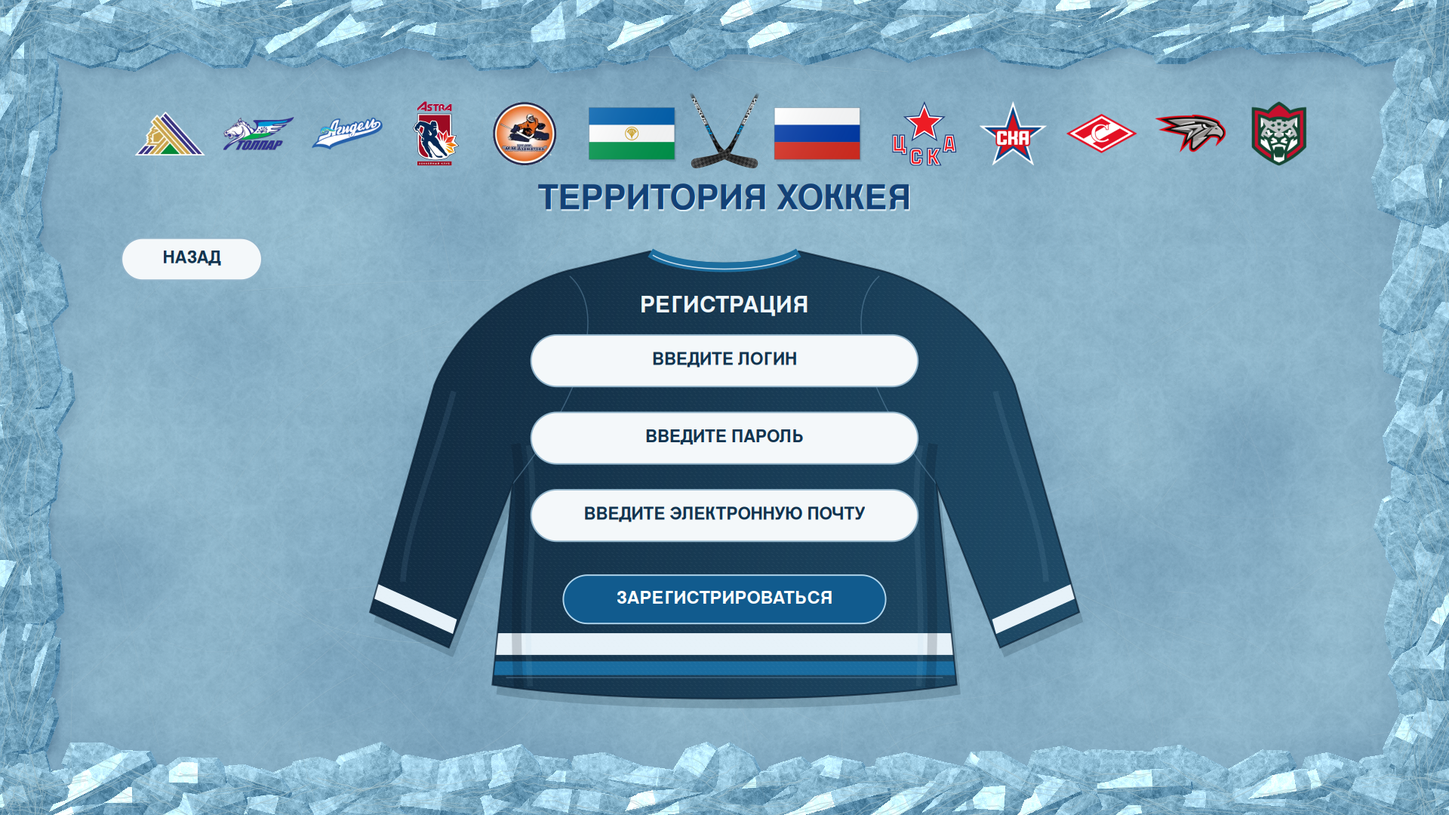
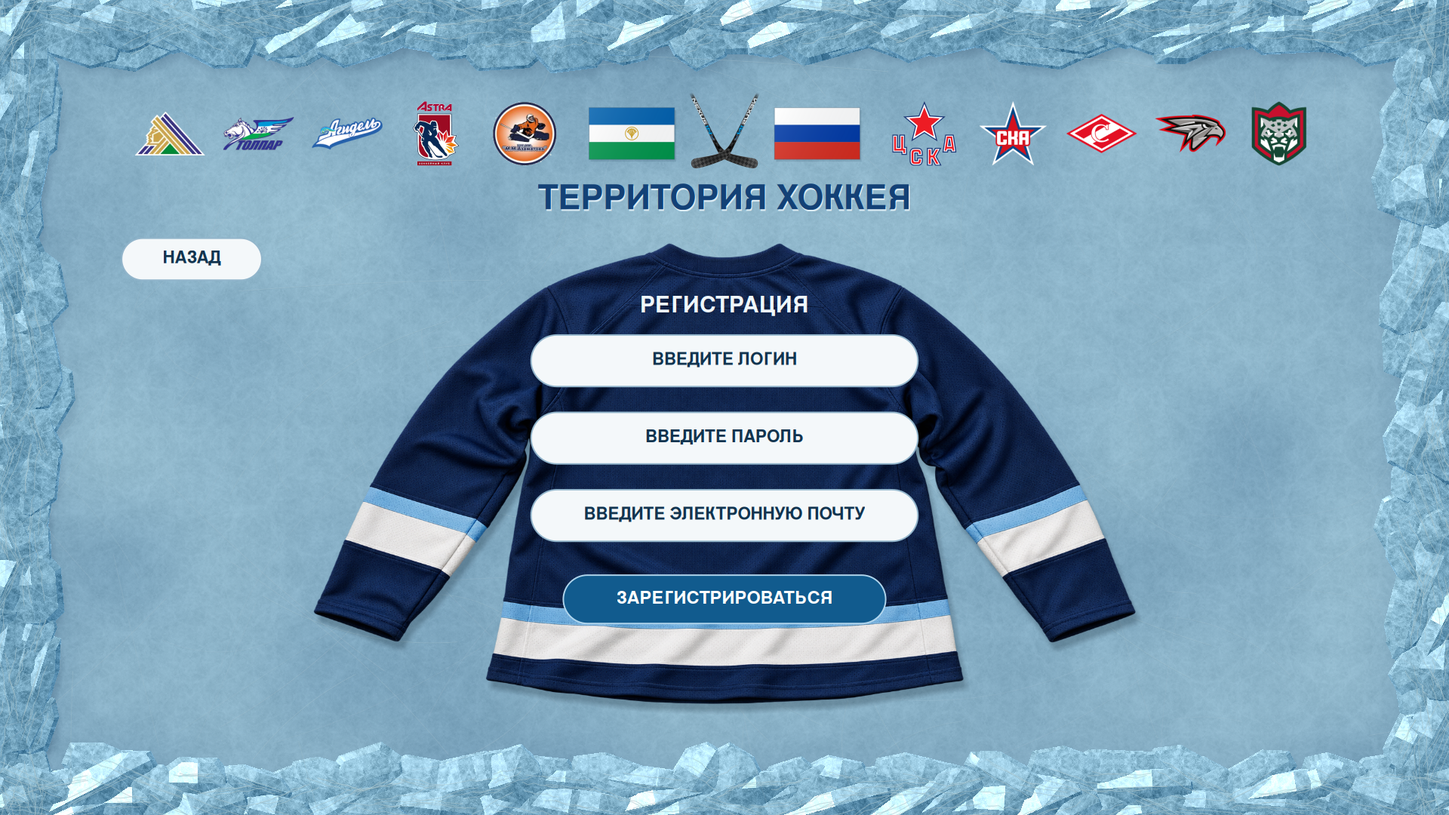
Make login and registration jerseys more realistic
Replace the flat jersey drawing with a transparent garment asset featuring natural folds, reinforced seams, a ribbed collar and cuffs. Composite visible regions with premultiplied alpha and add fine weave for large exports.

Keep native input geometry, refresh both form previews and the transition GIF, and document the source resolution and generation prompt.

Validation: Windows Release build with no warnings or errors; all input capsules remain on opaque cloth; matching full-patch and band rendering at Full HD, 4K and a native 32K crop.

Changed region(s): [[0.2188, 0.3056, 0.7812, 0.8861]]

diff --git a/COURSE_3/EP_TPaD_DB/App_C#/App/JerseyFabricDrawing.cs b/COURSE_3/EP_TPaD_DB/App_C#/App/JerseyFabricDrawing.cs
@@ -1,0 +1,173 @@
+using System.Drawing.Drawing2D;
+using System.Drawing.Imaging;
+using System.Runtime.InteropServices;
+
+namespace LP_PopovD_App
+{
+    internal static class JerseyFabricDrawing
+    {
+        // Широкая хоккейная посадка оставляет все поля внутри спинки.
+        internal static readonly RectangleF BodyBounds = new(290, 196, 1020, 572);
+        internal static readonly RectangleF PaintBounds = new(278, 184, 1044, 602);
+        private static Fabric? material;
+
+        private sealed class Fabric
+        {
+            internal readonly int Width, Height;
+            internal readonly int[] Pixels;
+            internal readonly byte[] Shadow;
+            internal readonly Rectangle Crop;
+
+            internal Fabric()
+            {
+                Bitmap image = ArtworkResources.Get("JerseyBack");
+                Width = image.Width; Height = image.Height;
+                Pixels = new int[Width * Height];
+                byte[] alpha = new byte[Pixels.Length];
+                BitmapData data = image.LockBits(new Rectangle(Point.Empty, image.Size),
+                    ImageLockMode.ReadOnly, PixelFormat.Format32bppArgb);
+                int left = Width, top = Height, right = -1, bottom = -1;
+                try
+                {
+                    int[] row = new int[Width];
+                    for (int y = 0; y < Height; y++)
+                    {
+                        Marshal.Copy(IntPtr.Add(data.Scan0, y * data.Stride), row, 0, Width);
+                        for (int x = 0; x < Width; x++)
+                        {
+                            uint c = (uint)row[x];
+                            int a = (int)(c >> 24), r = (int)(c >> 16 & 255), g = (int)(c >> 8 & 255), b = (int)(c & 255);
+                            int i = y * Width + x;
+                            alpha[i] = (byte)a;
+                            Pixels[i] = a << 24 | (r * a + 127) / 255 << 16 | (g * a + 127) / 255 << 8 | (b * a + 127) / 255;
+                            if (a < 32) continue;
+                            left = Math.Min(left, x); top = Math.Min(top, y);
+                            right = Math.Max(right, x); bottom = Math.Max(bottom, y);
+                        }
+                    }
+                }
+                finally { image.UnlockBits(data); }
+                if (right < left) throw new InvalidDataException("Пустое изображение хоккейной майки.");
+                Crop = Rectangle.FromLTRB(left, top, right + 1, bottom + 1);
+                Shadow = BlurAlpha(alpha, Width, Height, 6);
+            }
+
+            private static byte[] BlurAlpha(byte[] alpha, int width, int height, int radius)
+            {
+                int diameter = radius * 2 + 1;
+                byte[] horizontal = new byte[alpha.Length], result = new byte[alpha.Length];
+                for (int y = 0; y < height; y++)
+                {
+                    int sum = 0, row = y * width;
+                    for (int k = 0; k <= radius; k++) sum += alpha[row + k];
+                    for (int x = 0; x < width; x++)
+                    {
+                        horizontal[row + x] = (byte)(sum / diameter);
+                        if (x - radius >= 0) sum -= alpha[row + x - radius];
+                        if (x + radius + 1 < width) sum += alpha[row + x + radius + 1];
+                    }
+                }
+                for (int x = 0; x < width; x++)
+                {
+                    int sum = 0;
+                    for (int k = 0; k <= radius; k++) sum += horizontal[k * width + x];
+                    for (int y = 0; y < height; y++)
+                    {
+                        result[y * width + x] = (byte)(sum / diameter);
+                        if (y - radius >= 0) sum -= horizontal[(y - radius) * width + x];
+                        if (y + radius + 1 < height) sum += horizontal[(y + radius + 1) * width + x];
+                    }
+                }
+                return result;
+            }
+
+            internal void Read(float x, float y, out float a, out float r, out float g, out float b)
+            {
+                a = r = g = b = 0;
+                if (x < 0 || y < 0 || x >= Width - 1 || y >= Height - 1) return;
+                int ix = (int)x, iy = (int)y, i = iy * Width + ix;
+                float fx = x - ix, fy = y - iy;
+                uint p00 = (uint)Pixels[i], p10 = (uint)Pixels[i + 1];
+                uint p01 = (uint)Pixels[i + Width], p11 = (uint)Pixels[i + Width + 1];
+                float w00 = (1 - fx) * (1 - fy), w10 = fx * (1 - fy), w01 = (1 - fx) * fy, w11 = fx * fy;
+                a = (p00 >> 24) * w00 + (p10 >> 24) * w10 + (p01 >> 24) * w01 + (p11 >> 24) * w11;
+                r = (p00 >> 16 & 255) * w00 + (p10 >> 16 & 255) * w10 + (p01 >> 16 & 255) * w01 + (p11 >> 16 & 255) * w11;
+                g = (p00 >> 8 & 255) * w00 + (p10 >> 8 & 255) * w10 + (p01 >> 8 & 255) * w01 + (p11 >> 8 & 255) * w11;
+                b = (p00 & 255) * w00 + (p10 & 255) * w10 + (p01 & 255) * w01 + (p11 & 255) * w11;
+            }
+
+            internal float ShadowAt(float x, float y)
+            {
+                if (x < 0 || y < 0 || x >= Width - 1 || y >= Height - 1) return 0;
+                int ix = (int)x, iy = (int)y, i = iy * Width + ix;
+                float fx = x - ix, fy = y - iy;
+                return (Shadow[i] * (1 - fx) + Shadow[i + 1] * fx) * (1 - fy) +
+                    (Shadow[i + Width] * (1 - fx) + Shadow[i + Width + 1] * fx) * fy;
+            }
+        }
+
+        internal static void Draw(Graphics g, RectangleF? viewport)
+        {
+            material ??= new Fabric();
+            Fabric fabric = material;
+            RectangleF visible = viewport.HasValue ? RectangleF.Intersect(PaintBounds, viewport.Value) : PaintBounds;
+            if (visible.IsEmpty) return;
+            using Matrix transform = g.Transform;
+            float[] m = transform.Elements;
+            float sx = m[0], sy = m[3], dx = m[4], dy = m[5];
+            if (sx <= 0 || sy <= 0 || Math.Abs(m[1]) > .001f || Math.Abs(m[2]) > .001f)
+                throw new NotSupportedException("Для майки нужен прямой масштаб без поворота.");
+            int left = (int)Math.Floor(visible.Left * sx + dx), top = (int)Math.Floor(visible.Top * sy + dy);
+            int right = (int)Math.Ceiling(visible.Right * sx + dx), bottom = (int)Math.Ceiling(visible.Bottom * sy + dy);
+            int width = right - left, height = bottom - top;
+            if (width < 1 || height < 1) return;
+            using Bitmap patch = new(width, height, PixelFormat.Format32bppPArgb);
+            patch.SetResolution(96, 96);
+            BitmapData data = patch.LockBits(new Rectangle(Point.Empty, patch.Size), ImageLockMode.WriteOnly, PixelFormat.Format32bppPArgb);
+            float sourceScaleX = fabric.Crop.Width / BodyBounds.Width, sourceScaleY = fabric.Crop.Height / BodyBounds.Height;
+            float detail = Math.Clamp((Math.Min(sx, sy) - 3) / 6, 0, 1);
+            try
+            {
+                Parallel.For(0, height, new ParallelOptions { MaxDegreeOfParallelism = Math.Min(Environment.ProcessorCount, 8) },
+                    () => new int[width], (y, _, row) =>
+                    {
+                        float wy = (top + y + .5f - dy) / sy;
+                        float v = fabric.Crop.Top + (wy - BodyBounds.Y) * sourceScaleY - .5f;
+                        for (int x = 0; x < width; x++)
+                        {
+                            float wx = (left + x + .5f - dx) / sx;
+                            float u = fabric.Crop.Left + (wx - BodyBounds.X) * sourceScaleX - .5f;
+                            fabric.Read(u, v, out float a, out float r, out float green, out float b);
+                            if (a > 16 && detail > 0)
+                            {
+                                // Тонкое плетение строится в целевых пикселях, а не увеличивается из PNG.
+                                float tx = (wx - BodyBounds.X) * 2.8f, ty = (wy - BodyBounds.Y) * 3.1f;
+                                int ix = (int)MathF.Floor(tx), iy = (int)MathF.Floor(ty);
+                                float fx = tx - ix, fy = ty - iy;
+                                float yarn = ((ix + iy) & 1) == 0 ? 1 - Math.Abs(fx * 2 - 1) : 1 - Math.Abs(fy * 2 - 1);
+                                float pore = Math.Max(0, 1 - ((fx - .5f) * (fx - .5f) + (fy - .5f) * (fy - .5f)) * 34);
+                                float thread = ((yarn - .5f) * 2.2f - pore * 1.3f) * detail * a / 255;
+                                r = Math.Clamp(r + thread, 0, a); green = Math.Clamp(green + thread, 0, a); b = Math.Clamp(b + thread, 0, a);
+                            }
+                            float shadow = fabric.ShadowAt(u - 5 * sourceScaleX, v - 10 * sourceScaleY) * .24f * (1 - a / 255);
+                            float outputAlpha = a + shadow;
+                            int aa = (int)Math.Clamp(outputAlpha, 0, 255);
+                            int rr = (int)Math.Clamp(r + shadow * 4 / 255, 0, aa);
+                            int gg = (int)Math.Clamp(green + shadow * 18 / 255, 0, aa);
+                            int bb = (int)Math.Clamp(b + shadow * 30 / 255, 0, aa);
+                            row[x] = aa << 24 | rr << 16 | gg << 8 | bb;
+                        }
+                        Marshal.Copy(row, 0, IntPtr.Add(data.Scan0, y * data.Stride), row.Length);
+                        return row;
+                    }, _ => { });
+            }
+            finally { patch.UnlockBits(data); }
+            GraphicsState state = g.Save();
+            g.ResetTransform();
+            g.InterpolationMode = InterpolationMode.NearestNeighbor;
+            g.PixelOffsetMode = PixelOffsetMode.None;
+            g.DrawImageUnscaled(patch, left, top);
+            g.Restore(state);
+        }
+    }
+}

diff --git a/COURSE_3/EP_TPaD_DB/App_C#/App/JerseyDrawing.cs b/COURSE_3/EP_TPaD_DB/App_C#/App/JerseyDrawing.cs
@@ -25,82 +25,16 @@ namespace LP_PopovD_App
             return path;
         }
 
-        private static GraphicsPath Shirt()
-        {
-            GraphicsPath path = new();
-            path.AddBezier(708, 206, 745, 226, 855, 226, 892, 206);
-            path.AddLine(892, 206, 994, 230);
-            path.AddBezier(994, 230, 1056, 247, 1128, 293, 1160, 372);
-            path.AddLine(1160, 372, 1240, 654);
-            path.AddLine(1240, 654, 1142, 698);
-            path.AddLine(1142, 698, 1063, 495);
-            path.AddLine(1063, 495, 1088, 744);
-            path.AddBezier(1088, 744, 944, 767, 656, 767, 512, 744);
-            path.AddLine(512, 744, 537, 495);
-            path.AddLine(537, 495, 458, 698);
-            path.AddLine(458, 698, 360, 654);
-            path.AddLine(360, 654, 440, 372);
-            path.AddBezier(440, 372, 472, 293, 544, 247, 606, 230);
-            path.CloseFigure();
-            return path;
-        }
-
         internal static void Draw(Graphics g, bool registration, bool includeControls, string status = "", RectangleF? viewport = null)
         {
             HeaderDrawing.Draw(g, viewport);
-            if (viewport.HasValue && !viewport.Value.IntersectsWith(new RectangleF(345, 192, 915, 590)))
+            if (viewport.HasValue && !viewport.Value.IntersectsWith(JerseyFabricDrawing.PaintBounds))
             {
                 if (includeControls && viewport.Value.IntersectsWith(new RectangleF(49, 187, 180, 58)))
                     DrawCapsule(g, BackBounds, "НАЗАД", false);
                 return;
             }
-            using GraphicsPath shirt = Shirt();
-            using GraphicsPath shadow = (GraphicsPath)shirt.Clone();
-            using (Matrix move = new()) { move.Translate(5, 12); shadow.Transform(move); }
-            using SolidBrush shade = new(Color.FromArgb(42, 6, 25, 42));
-            g.FillPath(shade, shadow);
-            using LinearGradientBrush fabric = new(new RectangleF(354, 206, 892, 550),
-                Color.FromArgb(16, 40, 61), Color.FromArgb(31, 76, 105), 15);
-            g.FillPath(fabric, shirt);
-            GraphicsState state = g.Save();
-            g.SetClip(shirt, CombineMode.Intersect);
-            using SolidBrush stripe = new(Color.FromArgb(231, 242, 249));
-            using SolidBrush blue = new(Color.FromArgb(26, 108, 159));
-            g.FillRectangle(stripe, 500, 680, 600, 27);
-            g.FillRectangle(blue, 500, 715, 600, 17);
-            PointF[] cuff = { new(370, 619), new(468, 663), new(463, 681), new(365, 637) };
-            g.FillPolygon(stripe, cuff);
-            g.FillPolygon(stripe, cuff.Select(p => new PointF(1600 - p.X, p.Y)).ToArray());
-            using Pen sleeveFold = new(Color.FromArgb(28, 138, 184, 211), 7);
-            g.DrawBezier(sleeveFold, 464, 380, 441, 468, 406, 545, 401, 616);
-            g.DrawBezier(sleeveFold, 1136, 380, 1159, 468, 1194, 545, 1199, 616);
-            using Pen knit = new(Color.FromArgb(14, 201, 222, 234), 0.6f);
-            for (int y = 216; y < 760; y += 4)
-            {
-                if (viewport.HasValue && (y + 2 < viewport.Value.Top || y - 1 > viewport.Value.Bottom)) continue;
-                for (int x = 360 + (y % 8 == 0 ? 2 : 0); x < 1240; x += 6)
-                {
-                    if (viewport.HasValue && (x + 3 < viewport.Value.Left || x - 1 > viewport.Value.Right)) continue;
-                    g.DrawLine(knit, x, y, x + 2, y + 1);
-                }
-            }
-            using Pen fold = new(Color.FromArgb(44, 0, 9, 18), 12);
-            using Pen foldLight = new(Color.FromArgb(22, 155, 200, 224), 7);
-            g.DrawBezier(fold, 541, 445, 555, 530, 535, 629, 545, 748);
-            g.DrawBezier(foldLight, 557, 447, 571, 538, 550, 625, 559, 746);
-            g.DrawBezier(fold, 1059, 445, 1045, 530, 1065, 629, 1055, 748);
-            g.DrawBezier(foldLight, 1043, 447, 1029, 538, 1050, 625, 1041, 746);
-            using Pen seam = new(Color.FromArgb(105, 117, 162, 189), 1.4f);
-            g.DrawBezier(seam, 608, 237, 656, 280, 625, 385, 537, 495);
-            g.DrawBezier(seam, 992, 237, 944, 280, 975, 385, 1063, 495);
-            g.DrawLine(seam, 529, 735, 1071, 735);
-            g.Restore(state);
-            using Pen outline = new(Color.FromArgb(178, 9, 31, 50), 2);
-            g.DrawPath(outline, shirt);
-            using Pen collar = new(Color.FromArgb(28, 110, 159), 12);
-            g.DrawBezier(collar, 708, 208, 747, 232, 853, 232, 892, 208);
-            using Pen collarStitch = new(Color.FromArgb(206, 222, 235), 1.4f);
-            g.DrawBezier(collarStitch, 711, 211, 750, 234, 850, 234, 889, 211);
+            JerseyFabricDrawing.Draw(g, viewport);
 
             using Font title = new(RinkTypography.FamilyName, 28, FontStyle.Bold, GraphicsUnit.Pixel);
             using SolidBrush white = new(Color.FromArgb(239, 247, 252));

diff --git a/COURSE_3/EP_TPaD_DB/App_C#/README.md b/COURSE_3/EP_TPaD_DB/App_C#/README.md
@@ -39,6 +39,15 @@
 Регистрация использует ту же майку, размеры полей и стиль; добавлено поле электронной почты.
 Эмблемы клубов, флаги и название приложения остаются сверху в обоих случаях.
 
+Майка использует фотореалистическую основу: тяжёлая сетчатая ткань, естественные складки
+на рукавах и спинке, усиленные плечевые швы, вязаный воротник, объёмные манжеты и подгибка.
+Мягкая тень отделяет ткань от льда. Все поля целиком помещаются на широкой спинке.
+В крупном экспорте мелкое плетение дополнительно рассчитывается в целевых пикселях;
+отрисовывается только видимая полоса, без выделения памяти под всю майку в 32K.
+[Jersey_Detail_32K.png](Jersey_Detail_32K.png) — фрагмент 1600 × 1200 из кадра
+30720 × 17280 в масштабе 1:1. Основа создана встроенным ImageGen с прозрачным фоном;
+её исходный размер — 1536 × 1024, [полный запрос](App/Assets/JerseyBack.prompt.txt).
+
 Это настоящие элементы ввода WinForms:
 - пароль закрывается системными символами;
 - поля доступны мышью и клавишей Tab;
@@ -87,8 +96,8 @@ MIP-уровень подавляет муар при уменьшении; но
 В [Ice_Detail_32K.png](Ice_Detail_32K.png) показан фрагмент 1600 × 1200 из отрисовки
 кадра 30720 × 17280 в масштабе 1:1, чтобы рассмотреть острые грани и фактуру.
 Кэш переносится на экран 1:1 без повторной фильтрации.
-Майка, поля, надписи и разметка также строятся в целевом разрешении.
-Собственная детализация растровых эмблем, резины и исходного материала льда
+Композиция майки, дополнительное плетение, поля, надписи и разметка строятся в целевом разрешении.
+Собственная детализация растровых эмблем, резины, основы майки и исходного материала льда
 ограничена исходниками; размер готового кадра не превращает их в изображения 32K.
 Окно рисуется в разрешении монитора; экран Full HD или 4K физически не показывает все пиксели 32K.
 
@@ -111,7 +120,7 @@ Esc возвращает назад; на стартовом экране зак
 ## Экспорт 32K
 
 Размер по умолчанию — **30720 × 17280**, 530 841 600 пикселей, формат RGB PNG без потерь.
-Фон, майка, поля, текст и разметка рассчитываются заново в этом размере.
+Фон, композиция майки, поля, текст и разметка рассчитываются заново в этом размере.
 Это не увеличение PNG-превью 1920 × 1080.
 
 Для экспорта всех четырёх экранов в Windows запустить из папки `App_C#`:
@@ -178,6 +187,8 @@ JPEG поддерживается до 15360 пикселей по ширине;
 - Проверены порядок эмблем, загрузка ресурсов и нормализация DPI.
 - Проверены общий масштаб надписей и попадание букв внутрь окружностей.
 - Проверены обязательность полей и формат электронной почты.
+- Для новой майки проверено попадание полей на непрозрачную ткань и совпадение отрисовки
+  одним фрагментом и полосами в Full HD, 4K и на фрагменте 32K.
 - Отрисованы 25 кадров пролёта камеры со снегом, собран GIF-пример.
 
 Само окно WinForms в Windows в этой среде не запускалось.

diff --git a/COURSE_3/EP_TPaD_DB/App_C#/ASSETS.md b/COURSE_3/EP_TPaD_DB/App_C#/ASSETS.md
@@ -19,6 +19,7 @@
 | HockeyStick.png | [PNGimg.com — Hockey Stick glossy, ID 26544](https://pngimg.com/image/26544), [PNG](https://pngimg.com/uploads/hockey/hockey_PNG102.png) | 1110 × 1110 |
 | PuckSurface.png | Встроенный ImageGen, материал использованной хоккейной шайбы; полный запрос в PuckSurface.prompt.txt | 1254 × 1254 |
 | IceSurface.png | Встроенный ImageGen, фотореалистический материал замёрзшей воды с пузырьками и трещинами; [полный запрос](App/Assets/IceSurface.prompt.txt) | 1254 × 1254 |
+| JerseyBack.png | Встроенный ImageGen, новая генерация задней стороны хоккейной майки с прозрачным фоном; [полный запрос](App/Assets/JerseyBack.prompt.txt) | 1536 × 1024 |
 | IceFrame.png | Архив прежнего фона ImageGen; не включён в сборку и не используется | 1672 × 941 |
 
 Фотография клюшки: **PNGimg.com**, [CC BY-NC 4.0](https://pngimg.com/license).
@@ -35,5 +36,9 @@ IceSurface — материал для многомасштабного повт
 В окне используется MIP-уровень, в 32K — исходная фактура с билинейной выборкой.
 Координаты материала непрерывны между полосами экспорта; отражение и два масштаба уменьшают повторяемость.
 Исходная фактура имеет размер 1254 × 1254, а не 32K; детализация самих эмблем и резины также ограничена исходниками.
-Хоккейная майка, её ткань, швы и полосы рисуются JerseyDrawing.cs.
+JerseyBack — изображение майки с естественными складками тяжёлой ткани, усиленными плечевыми швами,
+вязаными воротником и манжетами. JerseyFabricDrawing.cs размещает его с учётом прозрачности,
+добавляет мягкую тень и при большом масштабе рассчитывает мелкое плетение непосредственно
+в целевых пикселях. Исходник майки имеет размер 1536 × 1024; добавление плетения не превращает
+исходное изображение в фотографию 32K. JerseyDrawing.cs поверх спинки рисует заголовок и поля.
 Малые сколы кромки шайб строятся геометрией; фотографический материал покрывает всю рабочую поверхность.
